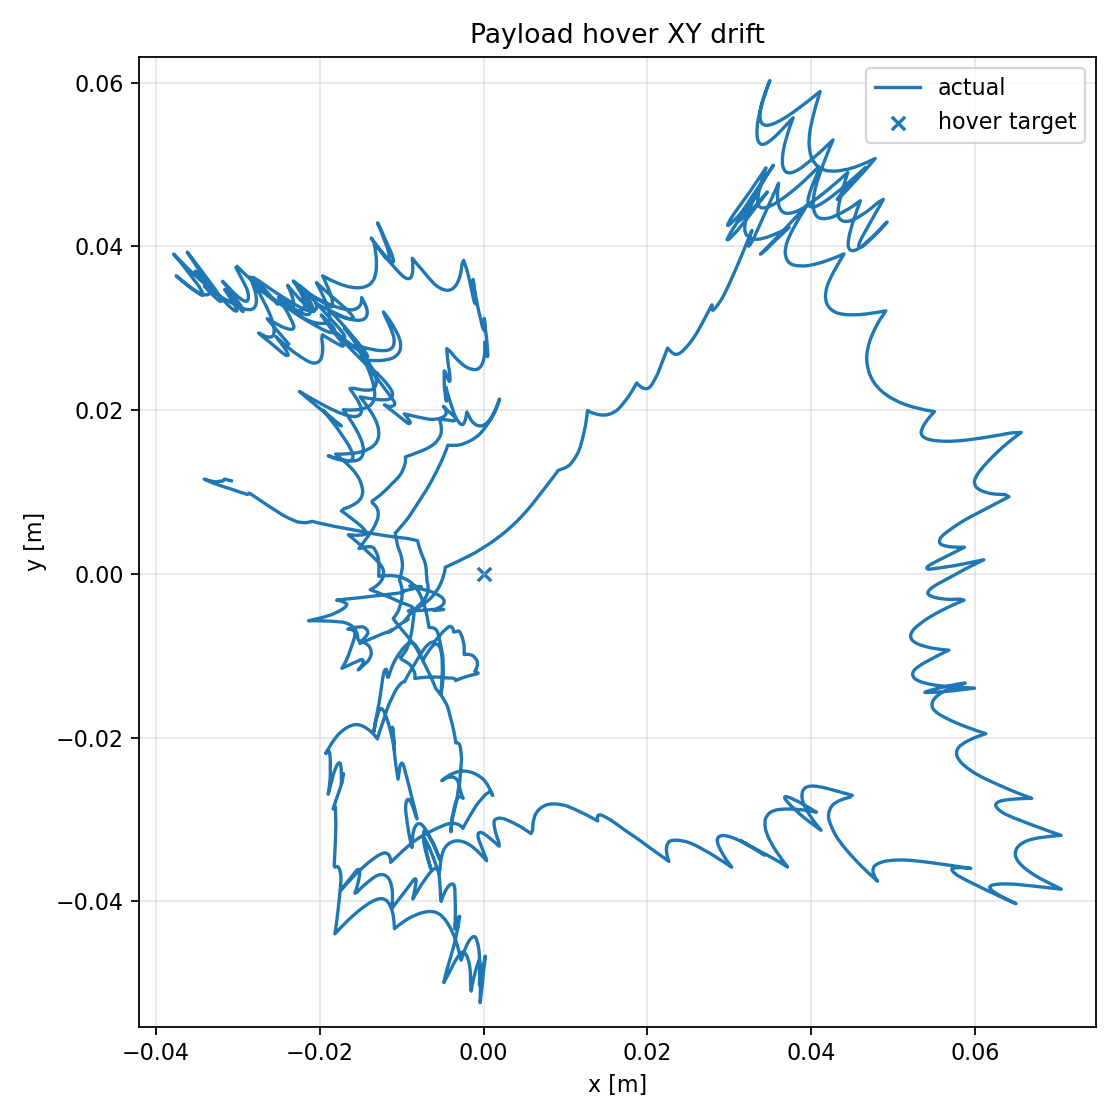
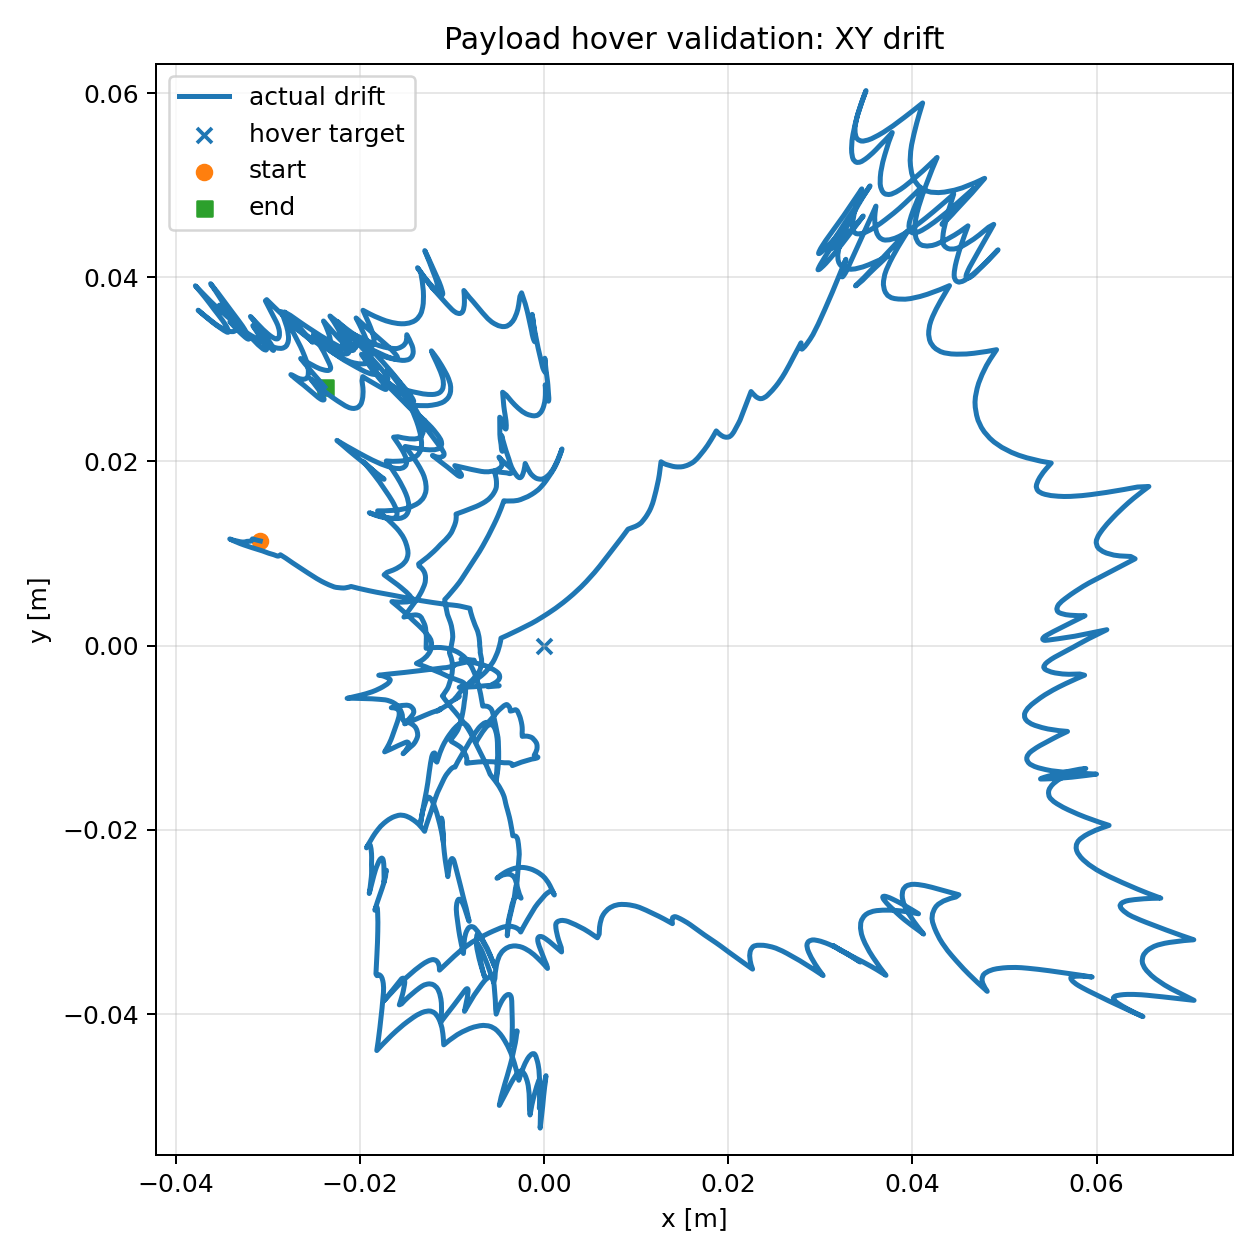
Add hover drift and 3D trajectory plots

diff --git a/README.md b/README.md
@@ -141,8 +141,14 @@ Payload hover test:
 Artifacts:
 
 - Payload hover report: [`reports/payload_hover_2026-06-05/HOVER_VALIDATION_REPORT.md`](reports/payload_hover_2026-06-05/HOVER_VALIDATION_REPORT.md)
+- XY drift plot: [`reports/payload_hover_2026-06-05/hover_xy_drift.png`](reports/payload_hover_2026-06-05/hover_xy_drift.png)
+- 3D hover trajectory: [`reports/payload_hover_2026-06-05/payload_hover_3d.png`](reports/payload_hover_2026-06-05/payload_hover_3d.png)
 - XYZ-time plot: [`reports/payload_hover_2026-06-05/hover_xyz_vs_time.png`](reports/payload_hover_2026-06-05/hover_xyz_vs_time.png)
 - Error plot: [`reports/payload_hover_2026-06-05/hover_tracking_error.png`](reports/payload_hover_2026-06-05/hover_tracking_error.png)
+
+![Payload hover XY drift](reports/payload_hover_2026-06-05/hover_xy_drift.png)
+
+![Payload hover 3D trajectory](reports/payload_hover_2026-06-05/payload_hover_3d.png)
 
 ![Payload hover validation](reports/payload_hover_2026-06-05/hover_xyz_vs_time.png)
 
@@ -160,8 +166,14 @@ Artifacts:
 
 - Control report: [`reports/hover_control_check_2026-06-05/HOVER_CONTROL_CHECK.md`](reports/hover_control_check_2026-06-05/HOVER_CONTROL_CHECK.md)
 - Z plot: [`reports/hover_control_check_2026-06-05/hover_control_check_z.png`](reports/hover_control_check_2026-06-05/hover_control_check_z.png)
+- XY drift plot: [`reports/hover_control_check_2026-06-05/hover_control_check_xy_drift.png`](reports/hover_control_check_2026-06-05/hover_control_check_xy_drift.png)
+- 3D hover trajectory: [`reports/hover_control_check_2026-06-05/hover_control_check_3d.png`](reports/hover_control_check_2026-06-05/hover_control_check_3d.png)
 
 ![No-payload hover control check](reports/hover_control_check_2026-06-05/hover_control_check_z.png)
+
+![No-payload hover XY drift](reports/hover_control_check_2026-06-05/hover_control_check_xy_drift.png)
+
+![No-payload hover 3D trajectory](reports/hover_control_check_2026-06-05/hover_control_check_3d.png)
 
 ## Installation
 
@@ -297,4 +309,3 @@ Recommended next sequence:
 Safe statement:
 
 > The baseline ROS 2/PX4 offboard figure-8 circuit is complete and quantitatively logged. I have also added the first slung-payload SITL model and payload swing logger. The payload model currently boots and accepts offboard commands, but hover validation shows that the current cable/joint physics still prevents proper climb. I isolated this by running the same hover controller on the no-payload model, which successfully reaches the commanded altitude. The next task is therefore to correct the payload SDF joint model before presenting a completed slung-payload figure-8.
-

diff --git a/reports/hover_control_check_2026-06-05/HOVER_CONTROL_CHECK.md b/reports/hover_control_check_2026-06-05/HOVER_CONTROL_CHECK.md
@@ -12,3 +12,17 @@ The same `hover_offboard` node used in the payload hover test successfully climb
 - Post-12s mean error: 0.067 m
 
 Conclusion: hover/offboard control is valid. The payload hover failure is isolated to the payload Gazebo model/joint setup.
+
+## Generated Plots
+
+- `hover_control_check_z.png`
+- `hover_control_check_xy_drift.png`
+- `hover_control_check_3d.png`
+
+## Plot Preview
+
+![No-payload hover z response](hover_control_check_z.png)
+
+![No-payload hover XY drift](hover_control_check_xy_drift.png)
+
+![No-payload hover 3D trajectory](hover_control_check_3d.png)

diff --git a/reports/payload_hover_2026-06-05/HOVER_VALIDATION_REPORT.md b/reports/payload_hover_2026-06-05/HOVER_VALIDATION_REPORT.md
@@ -48,7 +48,16 @@ Do not continue to payload Figure-8 until hover passes. The next coding/debug pa
 - `hover_xyz_vs_time.png`
 - `hover_tracking_error.png`
 - `hover_xy_drift.png`
+- `payload_hover_3d.png`
 - `hover_payload_cable_angle.png`
+
+## Plot Preview
+
+![Payload hover XY drift](hover_xy_drift.png)
+
+![Payload hover 3D trajectory](payload_hover_3d.png)
+
+![Payload hover XYZ versus time](hover_xyz_vs_time.png)
 
 ## Control Check Added
 
